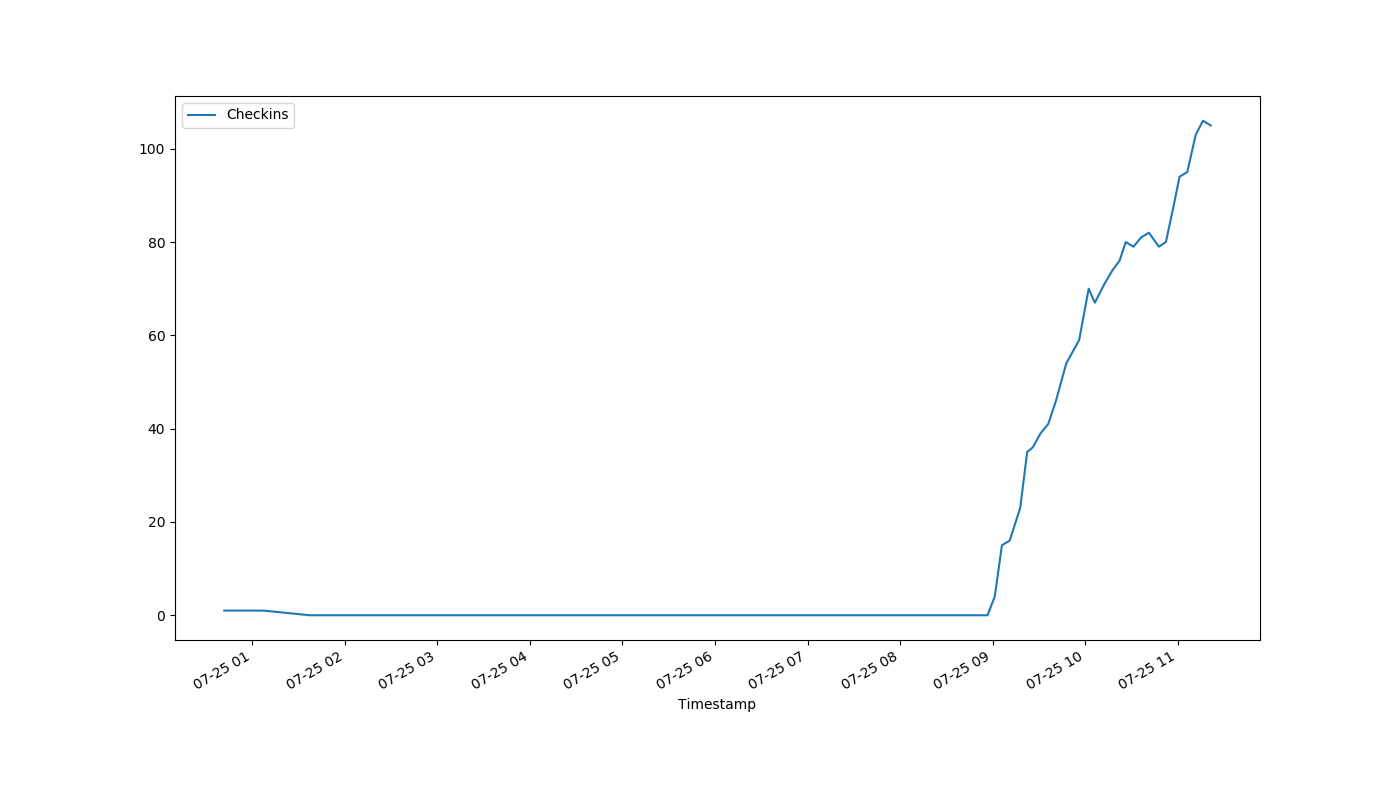
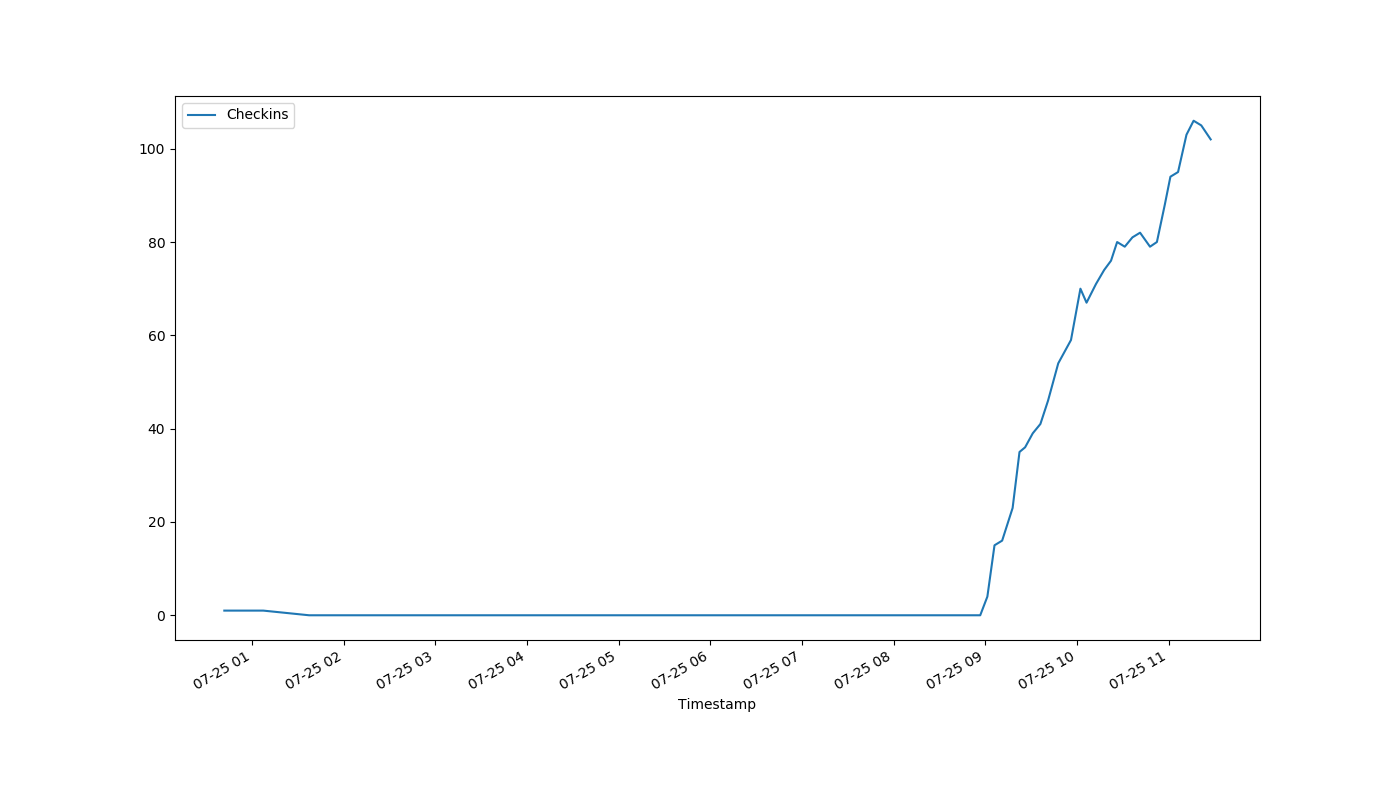
auto-Jul-25-11:28:27

diff --git a/index.html b/index.html
@@ -1,1 +1,1 @@
-<!DOCTYPE html><html><head><meta http-equiv="refresh" content="30"><link rel='stylesheet' href='holmcurrent.css'></head><body><p id='count'>105</p><div id='graph-wrap'><img id='graph' src='holmgraph-Jul-25.png'></div><p id='updated'>Last updated 11:22:18 / 11:21:19</p></body></html>
+<!DOCTYPE html><html><head><meta http-equiv="refresh" content="30"><link rel='stylesheet' href='holmcurrent.css'></head><body><p id='count'>102</p><div id='graph-wrap'><img id='graph' src='holmgraph-Jul-25.png'></div><p id='updated'>Last updated 11:28:18 / 11:27:30</p></body></html>
